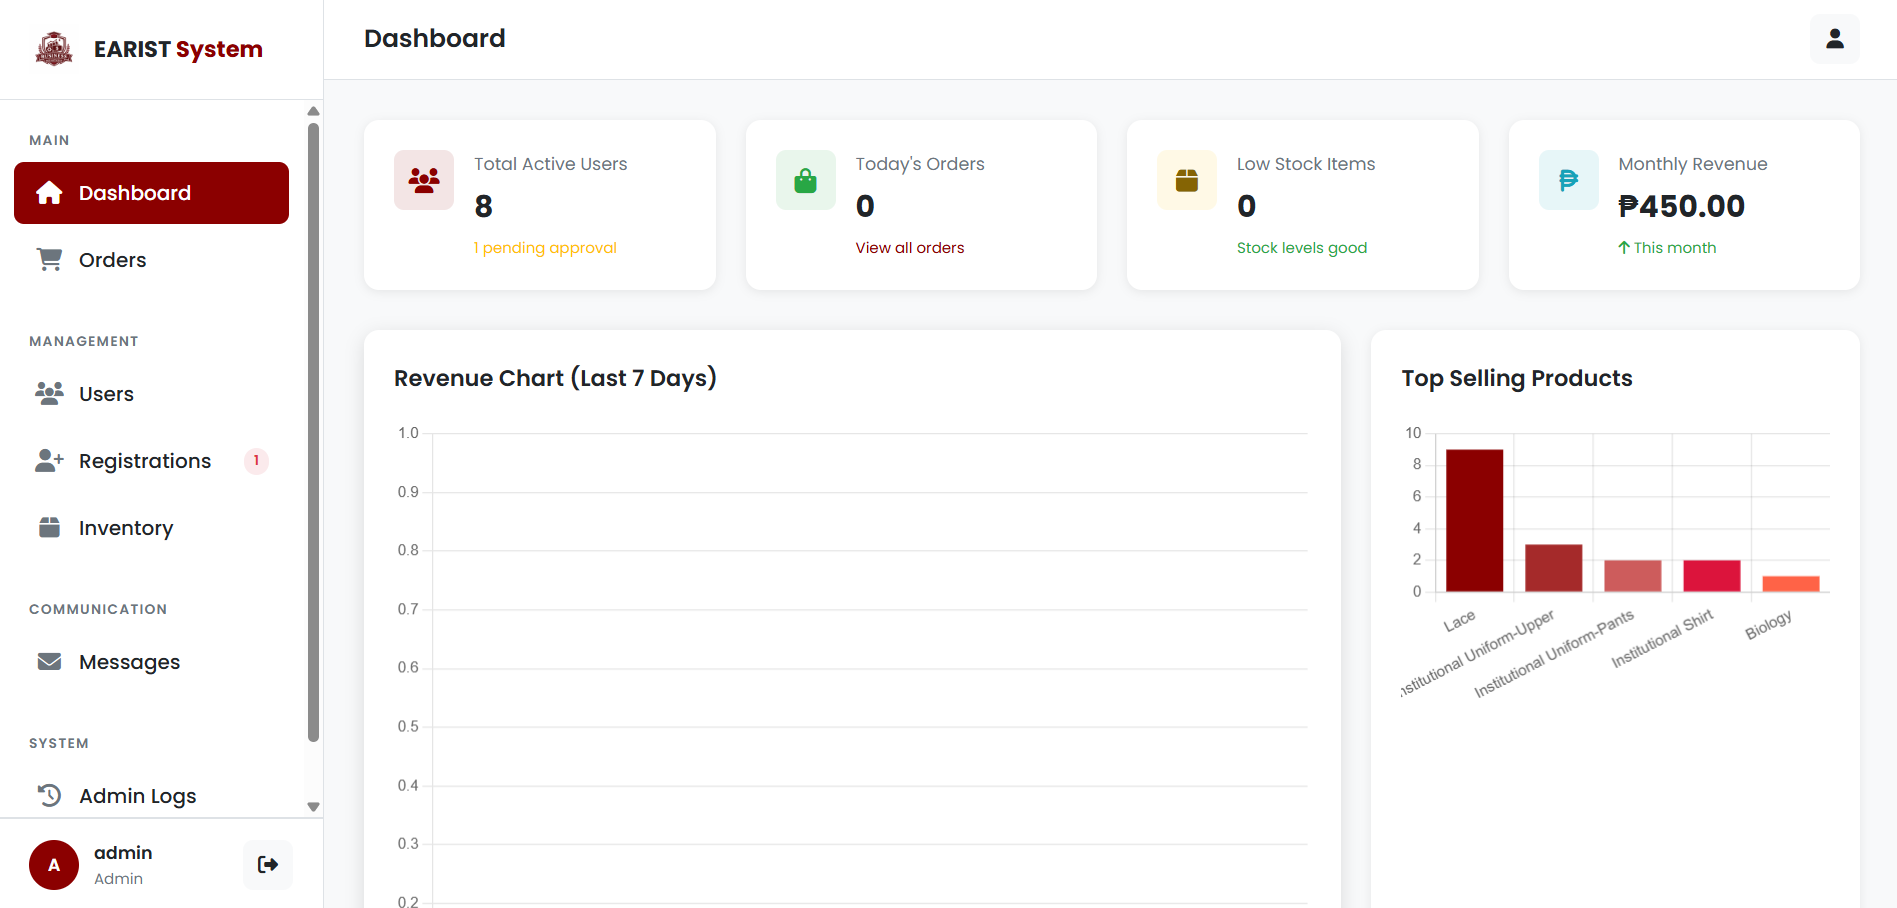
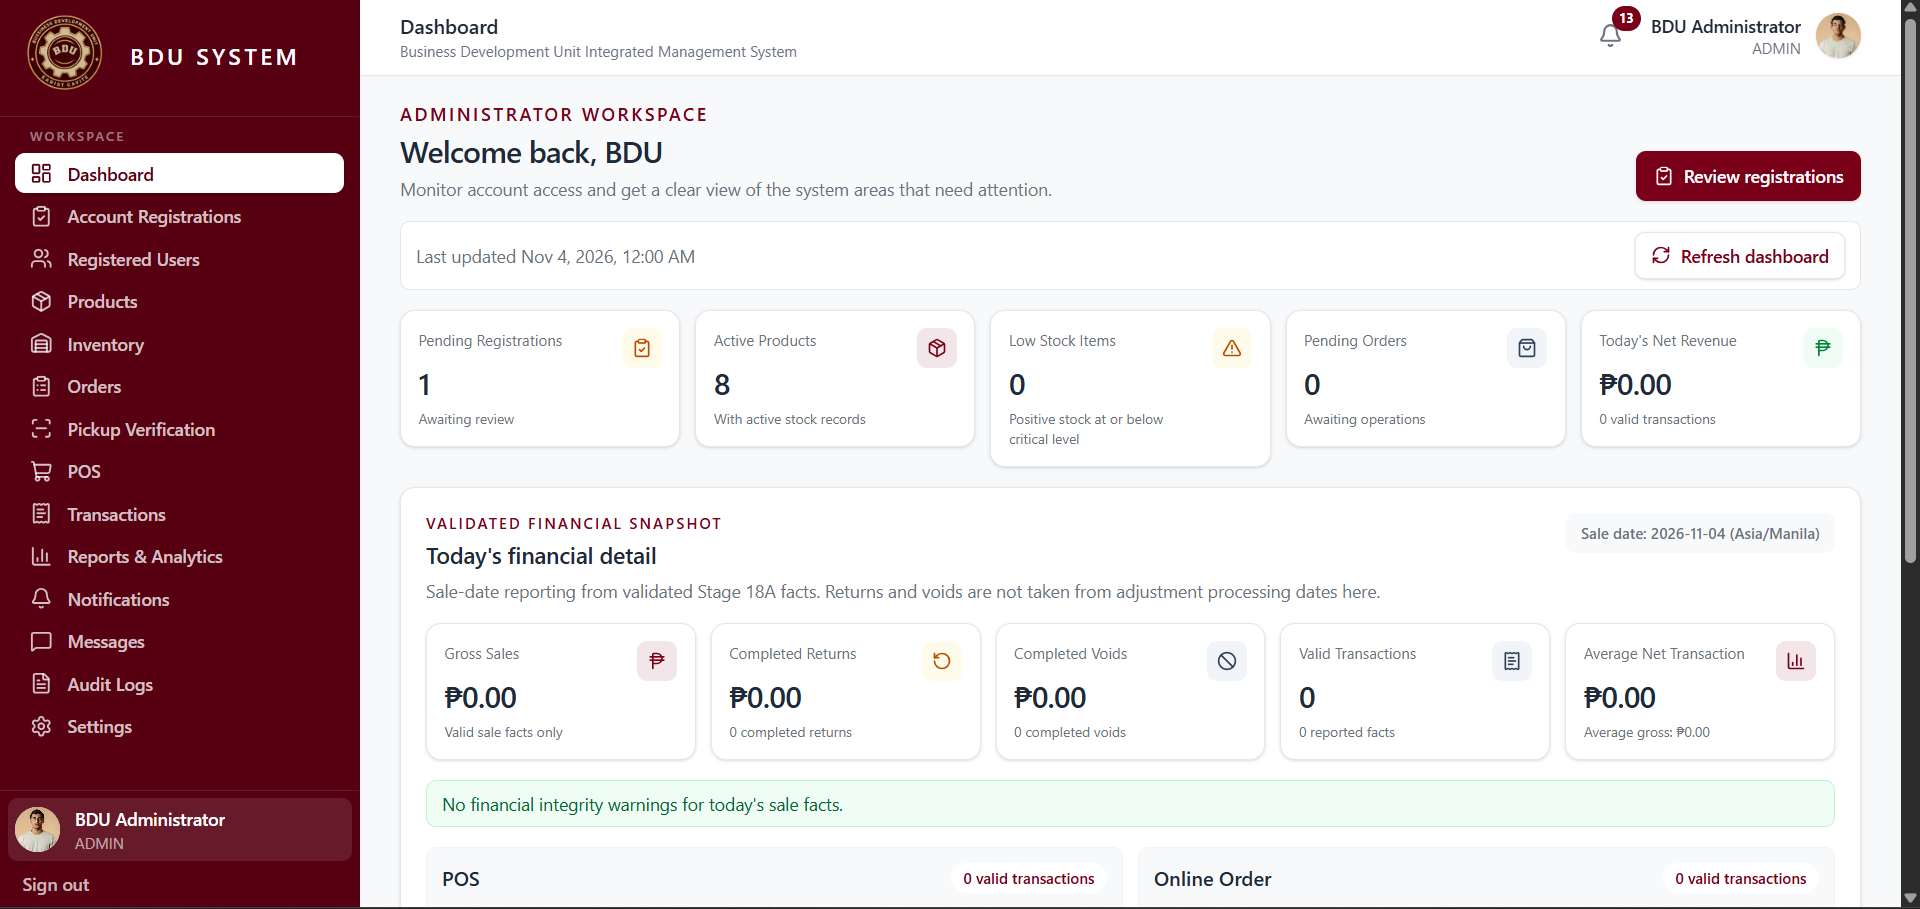
Update portfolio with thesis-defended BDU CONNECT system

diff --git a/src/data/projects.js b/src/data/projects.js
@@ -30,70 +30,79 @@ export const projects = [
     id: 'bdu',
     number: '01',
     slug: 'earist-business-development-unit-system',
-    title: 'EARIST Business Development Unit System',
-    shortTitle: 'EARIST BDU System',
-    version: '1.0',
-    type: 'Capstone / Thesis Web-Based Management System',
+    title: 'BDU CONNECT',
+    shortTitle: 'BDU CONNECT',
+    subtitle: 'EARIST Business Development Unit Integrated Management System',
+    type: 'Web-Based Integrated Management System',
     role: 'Programmer',
-    status: 'Featured / Capstone',
+    status: 'Thesis Defended',
     featured: true,
-    shortDescription: 'A web-based Business Development Unit management system integrating inventory, online ordering, preorder workflows, POS transactions, barcode-assisted pickup, reporting, and role-based administration.',
-    overview: 'The EARIST Business Development Unit System is a web-based management platform designed to support Business Development Unit operations through an integrated POS and department portal. The system brings together product management, inventory monitoring, student and staff records, online ordering, preorder workflows, point-of-sale transactions, order processing, barcode-assisted pickup, reporting, activity logs, messaging, and role-based access.',
-    technologies: ['PHP', 'MySQL', 'HTML', 'CSS', 'JavaScript', 'PDO', 'AJAX', 'Chart.js', 'XAMPP'],
-    visibleTechnologies: ['PHP', 'MySQL', 'JavaScript', 'AJAX'],
-    categories: ['Product & Inventory', 'User Management', 'Online Store', 'POS & Order Processing', 'Administration & Monitoring'],
+    shortDescription: 'BDU CONNECT is a web-based integrated management system developed for the Business Development Unit of EARIST Cavite Campus. It integrates online pre-ordering, product and inventory management, point-of-sale transactions, barcode-assisted order pickup, sales monitoring, reporting, and role-based administration using modern web technologies.',
+    overview: 'BDU CONNECT is a web-based integrated management system developed to support the operational and administrative processes of the Business Development Unit of EARIST Cavite Campus. The system centralizes product management, inventory monitoring, student online pre-ordering, order processing, point-of-sale transactions, barcode-assisted order pickup, sales monitoring, reporting, and account administration.\n\nBuilt using React, Vite, Tailwind CSS, and Supabase, the system provides dedicated interfaces for administrators, staff, and students. It integrates database management, authentication, role-based access, file storage, and interactive reporting within a unified web application.',
+    technologies: ['React', 'JavaScript', 'Tailwind CSS', 'HTML', 'CSS', 'Vite', 'Supabase', 'PostgreSQL', 'PostgreSQL Database Functions', 'RPC', 'Supabase Auth', 'Row-Level Security', 'Supabase Storage', 'Visual Studio Code', 'Git', 'GitHub'],
+    visibleTechnologies: ['React', 'Vite', 'Tailwind CSS', 'Supabase', 'PostgreSQL'],
+    categories: ['Product & Inventory', 'Online Pre-Ordering', 'Point of Sale', 'Order Fulfillment', 'Administration & Reporting'],
     features: [
-      { category: 'COMMERCE', items: ['Online Store', 'Cart', 'Preorder', 'Point of Sale'] },
-      { category: 'OPERATIONS', items: ['Product Management', 'Inventory Management', 'Order Processing', 'Barcode-Assisted Pickup'] },
-      { category: 'ADMINISTRATION', items: ['User / Record Management', 'Role-Based Access', 'Activity Logs', 'Messaging'] },
-      { category: 'INSIGHTS', items: ['Reports'] },
+      { category: 'COMMERCE', items: ['Product Catalog', 'Shopping Cart', 'Online Pre-Ordering', 'Point-of-Sale Transactions', 'Cash Payment Upon Pickup'] },
+      { category: 'OPERATIONS', items: ['Product Management', 'Product Type and Variant Management', 'SKU Management', 'Inventory Management', 'Order Processing', 'Barcode-Assisted Pickup', 'Transaction Management'] },
+      { category: 'ADMINISTRATION', items: ['User Account Management', 'Registration and Account Approval', 'Role-Based Access', 'Audit Logs', 'Notifications', 'Messaging', 'Landing Page Management', 'Announcement Management', 'Account Settings'] },
+      { category: 'INSIGHTS', items: ['Sales Monitoring', 'Sales Reports', 'Inventory Reports', 'Transaction Reports', 'Product Performance Reports', 'Dashboard Analytics'] },
     ],
     // Future screenshots should be reviewed for student IDs, contact details, credentials, tokens, and private transactions.
     screenshots: [
-      { id: 'bdu-dashboard', title: 'Admin Dashboard', description: 'Primary administrative overview.', image: bduDashboard, alt: 'EARIST BDU admin dashboard' },
-      { id: 'bdu-inventory', title: 'Inventory Management', description: 'Inventory monitoring interface.', image: bduInventory, alt: 'EARIST BDU inventory management' },
-      { id: 'bdu-store', title: 'Online Store', description: 'Product browsing and ordering interface.', image: bduStore, alt: 'EARIST BDU online store' },
-      { id: 'bdu-cart', title: 'Cart / Order', description: 'Cart and order workflow interface.', image: bduCart, alt: 'EARIST BDU cart and order' },
-      { id: 'bdu-pos', title: 'POS Interface', description: 'Point-of-sale transaction interface.', image: bduPos, alt: 'EARIST BDU point-of-sale interface' },
-      { id: 'bdu-processing', title: 'Order Processing', description: 'Order processing interface.', image: bduProcessing, alt: 'EARIST BDU order processing' },
-      { id: 'bdu-pickup', title: 'Barcode-Assisted Pickup', description: 'Pickup verification interface.', image: bduPickup, alt: 'EARIST BDU barcode-assisted pickup' },
-      { id: 'bdu-reports', title: 'Reports', description: 'Reporting interface.', image: bduReports, alt: 'EARIST BDU reports' },
+      { id: 'bdu-dashboard', title: 'Admin Dashboard', description: 'Primary administrative overview.', image: bduDashboard, alt: 'BDU CONNECT admin dashboard' },
+      { id: 'bdu-inventory', title: 'Inventory Management', description: 'Inventory monitoring interface.', image: bduInventory, alt: 'BDU CONNECT inventory management' },
+      { id: 'bdu-store', title: 'Online Store', description: 'Product browsing and ordering interface.', image: bduStore, alt: 'BDU CONNECT online store' },
+      { id: 'bdu-cart', title: 'Cart / Order', description: 'Cart and order workflow interface.', image: bduCart, alt: 'BDU CONNECT cart and order' },
+      { id: 'bdu-pos', title: 'POS Interface', description: 'Point-of-sale transaction interface.', image: bduPos, alt: 'BDU CONNECT point-of-sale interface' },
+      { id: 'bdu-processing', title: 'Order Processing', description: 'Order processing interface.', image: bduProcessing, alt: 'BDU CONNECT order processing' },
+      { id: 'bdu-pickup', title: 'Barcode-Assisted Pickup', description: 'Pickup verification interface.', image: bduPickup, alt: 'BDU CONNECT barcode-assisted pickup' },
+      { id: 'bdu-reports', title: 'Reports', description: 'Reporting interface.', image: bduReports, alt: 'BDU CONNECT reports' },
     ],
     challenge: null,
     solution: null,
     learnings: null,
     contributions: [],
     caseStudy: {
-      objective: 'To organize Business Development Unit transactions and operational workflows within a centralized web-based system, covering product and inventory management, ordering, point-of-sale transactions, pickup processing, records, reporting, and role-based access.',
+      objective: 'To streamline Business Development Unit operations through a centralized digital platform that supports product and inventory management, online pre-ordering, point-of-sale transactions, order fulfillment, sales monitoring, and administrative decision-making.',
       users: [
-        { label: 'Administrator', description: 'Manages system operations, records, products, inventory, orders, reports, user access, and administrative workflows.' },
-        { label: 'Student', description: 'Can access the appropriate user portal and participate in supported ordering and account workflows.' },
-        { label: 'Staff', description: 'Can access the appropriate staff portal and participate in supported ordering and account workflows.' },
+        { label: 'Administrator', description: 'Manages user accounts and registration approvals, products, product types, variants, inventory, orders, sales, reports, announcements, landing-page content, audit logs, and administrative settings.' },
+        { label: 'Staff', description: 'Processes point-of-sale transactions, manages online orders, verifies and releases pickups, monitors products and inventory, and accesses authorized transaction records and reports.' },
+        { label: 'Student', description: 'Browses products, adds variants to the cart, submits online pre-orders, monitors order status, receives notifications, uses pickup identification or barcode, and manages account information.' },
       ],
       workflows: [
-        { label: 'A / Online order workflow', steps: ['Browse Products', 'Add to Cart', 'Place Order / Preorder', 'Order Processing', 'Pickup', 'Cash Payment Upon Pickup'] },
-        { label: 'B / Point-of-sale workflow', steps: ['Product Selection', 'Transaction', 'Inventory Update', 'Record / Receipt Flow'] },
-        { label: 'C / Order pickup workflow', steps: ['Processed Order', 'Pickup Verification', 'Barcode-Assisted Identification', 'Order Release'] },
-        { label: 'D / Account registration workflow', steps: ['Student / Staff Registration', 'Pending Approval', 'Waiting Area', 'Administrative Review', 'Approved Account Access'] },
+        { label: 'A / Student online pre-ordering', steps: ['Browse Products', 'Select Product and Variant', 'Add to Cart', 'Submit Pre-Order', 'Order Processing', 'Pickup and Cash Payment'] },
+        { label: 'B / Point-of-sale workflow', steps: ['Product Selection', 'Transaction Processing', 'Payment', 'Inventory Update', 'Transaction Record'] },
+        { label: 'C / Order pickup workflow', steps: ['Processed Order', 'Barcode-Assisted Verification', 'Pickup Confirmation and Cash Payment', 'Order Release'] },
+        { label: 'D / Account registration workflow', steps: ['Student / Staff Registration', 'Email Verification', 'Pending Approval', 'Administrative Review', 'Approved Account Access'] },
       ],
       technologyGroups: [
-        { label: 'Frontend', items: ['HTML', 'CSS', 'JavaScript'] },
-        { label: 'Backend', items: ['PHP', 'PDO', 'AJAX'] },
-        { label: 'Database', items: ['MySQL'] },
-        { label: 'Reporting / Visualization', items: ['Chart.js'] },
-        { label: 'Development Environment', items: ['XAMPP'] },
+        { label: 'Frontend', items: ['React', 'JavaScript', 'Tailwind CSS', 'HTML', 'CSS'] },
+        { label: 'Build Tool', items: ['Vite'] },
+        { label: 'Backend / Services', items: ['Supabase', 'PostgreSQL Database Functions', 'Remote Procedure Calls (RPC)'] },
+        { label: 'Database', items: ['PostgreSQL'] },
+        { label: 'Authentication / Authorization', items: ['Supabase Auth', 'Role-Based Access Control', 'Row-Level Security (RLS)'] },
+        { label: 'File Storage / Tools', items: ['Supabase Storage', 'Visual Studio Code', 'Git', 'GitHub'] },
       ],
-      dataDomains: ['Users', 'Products', 'Inventory', 'Students', 'Staff', 'Orders', 'Order Items', 'Transactions', 'Reports', 'Activity Records', 'Messages'],
-      technicalHighlights: ['PHP-based server-side processing', 'MySQL-backed data storage', 'PDO database interaction', 'JavaScript-driven interface behavior', 'AJAX-supported asynchronous interactions', 'Chart.js reporting / data visualization', 'Role-based access', 'Barcode-assisted pickup workflow', 'Activity logging', 'Responsive web interface'],
+      dataDomains: ['User Profiles', 'User Roles', 'Products', 'Product Types', 'Product Variants', 'SKUs', 'Inventory', 'Shopping Cart', 'Orders', 'Order Items', 'Transactions', 'Transaction Items', 'Notifications', 'Messages', 'Announcements', 'Audit Logs'],
+      dataRelationships: [
+        ['User Profiles', 'Orders', 'Order Items', 'Pickup'],
+        ['Product Types', 'Products', 'Variants', 'Inventory'],
+        ['Products', 'Transactions', 'Sales Reports'],
+        ['Administrative Activities', 'Audit Logs'],
+      ],
+      technicalHighlights: ['React component-based frontend', 'Vite development and build tooling', 'Tailwind CSS responsive interfaces', 'Supabase authentication', 'PostgreSQL-backed data management', 'Database functions and RPC operations', 'Row-Level Security policies', 'Role-specific application interfaces', 'Supabase Storage integration', 'Product variant and SKU management', 'Barcode-assisted pickup workflows', 'Transaction and inventory management', 'Audit logging', 'Sales reporting and dashboard analytics'],
       technicalLayers: [
-        { label: 'Interface', items: 'HTML / CSS / JavaScript' },
-        { label: 'Application Logic', items: 'PHP / AJAX' },
-        { label: 'Data', items: 'PDO / MySQL' },
-        { label: 'Reporting', items: 'Chart.js' },
+        { label: 'Presentation Layer', items: 'React / JavaScript / Tailwind CSS' },
+        { label: 'Application Layer', items: 'React Components / Application Workflows / Supabase Client' },
+        { label: 'Authentication and Authorization', items: 'Supabase Auth / Role-Based Access / RLS' },
+        { label: 'Data and Business Logic', items: 'PostgreSQL / Database Functions / RPC' },
+        { label: 'Storage Services', items: 'Supabase Storage' },
+        { label: 'Reporting and Analytics', items: 'Sales / Inventory / Transactions / Product Performance' },
       ],
-      contribution: 'As a programmer for the project, I contributed to the development of the system\'s web-based functionality and implementation.',
-      reflection: 'Working on the BDU system provided practical experience in developing a multi-module, database-driven web application that connects user workflows, administrative processes, transaction handling, and data management within one system. It also provided experience working across frontend interfaces, server-side logic, database interaction, and operational workflows.',
-      learningAreas: ['Multi-Module Development', 'Database-Driven Workflows', 'Role-Based System Design', 'Transaction & Order Flows', 'Frontend / Backend Integration', 'Iterative System Development'],
+      contribution: 'As a programmer of BDU CONNECT, I contributed to the development of its web application interfaces, database-driven workflows, authentication and authorization, product and inventory management, order processing, and transaction-related functionalities. The project provided practical experience in integrating modern frontend technologies with cloud-based database and application services.',
+      reflection: 'Developing BDU CONNECT strengthened my understanding of modern web application development, component-based interfaces, database management, authentication, and role-based system design. Transitioning from a traditional PHP/MySQL implementation to React and Supabase provided practical experience in integrating frontend applications with backend services and managing interconnected business workflows.\n\nThe project also improved my understanding of data consistency, access control, debugging, system testing, and the importance of designing applications around actual operational requirements.',
+      learningAreas: ['Component-Based Development', 'Cloud-Backed Data Workflows', 'Authentication & Authorization', 'Role-Based System Design', 'Transaction & Inventory Workflows', 'Application Testing & Debugging'],
     },
   },
   // GMASC's verified stack intentionally excludes Supabase.

diff --git a/src/components/ProjectCaseStudy.jsx b/src/components/ProjectCaseStudy.jsx
@@ -1,4 +1,4 @@
-import { useEffect, useRef } from 'react'
+import { Fragment, useEffect, useRef } from 'react'
 import { projects } from '../data/projects'
 import ProjectGallery from './ProjectGallery'
 import ProjectNavigation from './ProjectNavigation'
@@ -67,9 +67,9 @@ function CaseStudySection({ index, label, title, children, className = '' }) {
 function MetadataStrip({ project }) {
   const metadata = [
     { label: 'Role', value: project.role },
-    { label: 'System type', value: 'Capstone / Thesis' },
-    { label: 'Core stack', value: 'PHP / MySQL / JavaScript' },
-    { label: 'Architecture', value: 'Web-Based Management System' },
+    { label: 'Category', value: 'Capstone / Thesis' },
+    { label: 'Status', value: project.status },
+    { label: 'Institution', value: 'EARIST Cavite Campus' },
   ]
 
   return (
@@ -114,7 +114,7 @@ function BduCaseStudy({ project, onClose, onNavigate, isClosing }) {
           <button className="bdu-return-link" type="button" onClick={onClose}>
             <span aria-hidden="true">&larr;</span> Return to projects
           </button>
-          <button ref={closeButtonRef} aria-label="Close EARIST BDU case study" className="bdu-close-button" type="button" onClick={onClose}>
+          <button ref={closeButtonRef} aria-label="Close BDU CONNECT case study" className="bdu-close-button" type="button" onClick={onClose}>
             Close <span aria-hidden="true">X</span>
           </button>
         </div>
@@ -123,13 +123,14 @@ function BduCaseStudy({ project, onClose, onNavigate, isClosing }) {
           <div className="bdu-case-study-heading">
             <div className="bdu-case-study-kicker">
               <p className="font-technical">Project / {project.number}</p>
-              <p className="font-technical">Featured / Capstone</p>
+              <p className="font-technical">Featured / {project.status}</p>
             </div>
             <h1 id="bdu-case-study-title">{project.title}</h1>
-            <p className="bdu-case-study-type">Version {project.version} / {project.type}</p>
+            <p className="bdu-case-study-type">{project.subtitle}</p>
+            <p className="bdu-case-study-type">{project.type}</p>
             <p className="bdu-case-study-description">{project.overview}</p>
           </div>
-          <ProjectScreenshot className="bdu-header-screenshot project-case-study-hero-screenshot" featured placeholderLabel="System preview / BDU" project={project} screenshot={project.screenshots[0]} />
+          <ProjectScreenshot className="bdu-header-screenshot project-case-study-hero-screenshot" featured placeholderLabel="System preview / BDU CONNECT" project={project} screenshot={project.screenshots[0]} />
         </header>
 
         <MetadataStrip project={project} />
@@ -159,7 +160,7 @@ function BduCaseStudy({ project, onClose, onNavigate, isClosing }) {
             </div>
             <div className="bdu-access-note">
               <p className="font-technical">Account &amp; access workflow</p>
-              <p>Student and Staff registrations enter a pending state and move through a waiting area until administrative review. Admin accounts are not created through public registration.</p>
+              <p>Student and Staff accounts undergo registration, email verification, and administrative approval before accessing their authorized system interfaces. Administrator accounts are not created through public registration.</p>
             </div>
           </CaseStudySection>
 
@@ -194,22 +195,29 @@ function BduCaseStudy({ project, onClose, onNavigate, isClosing }) {
                 </article>
               ))}
             </div>
-            <p className="bdu-context-note">The system uses PHP and MySQL as its primary server-side and database foundation, with JavaScript and AJAX supporting interactive browser-side workflows and Chart.js supporting data visualization where applicable.</p>
+            <p className="bdu-context-note">BDU CONNECT uses React and Tailwind CSS to deliver responsive, role-specific user interfaces, with Vite supporting the frontend development and build process. Supabase provides PostgreSQL database services, authentication, file storage, and database-level access controls. PostgreSQL functions and RPC operations support application workflows and data processing.</p>
           </CaseStudySection>
 
           <CaseStudySection index="06" label="Database & data management" title="Data domains">
             <div className="bdu-data-layout">
               <div className="bdu-case-prose">
-                <p>The system is organized around functional data domains that connect users, products, inventory, transactions, and operational records. This view describes the areas of information the system works with, not a literal database schema.</p>
-                <div className="bdu-domain-list" aria-label="BDU data domains">
+                <p>The system uses PostgreSQL through Supabase to manage interconnected operational data, including user accounts, product information, inventory, pre-orders, transactions, notifications, and administrative records. Database relationships, access policies, and database functions support organized data management and controlled access.</p>
+                <div className="bdu-domain-list" aria-label="BDU CONNECT data domains">
                   {caseStudy.dataDomains.map((domain) => <span key={domain}>{domain}</span>)}
                 </div>
               </div>
-              <div className="bdu-data-diagram" aria-label="Conceptual relationships between BDU data domains">
+              <div className="bdu-data-diagram" aria-label="Conceptual relationships between BDU CONNECT data domains">
                 <p className="font-technical">Conceptual view / not an exact ERD</p>
-                <div className="bdu-data-diagram-row"><span>Users</span><span aria-hidden="true">-&gt;</span><span>Orders</span><span aria-hidden="true">-&gt;</span><span>Pickup</span></div>
-                <div className="bdu-data-diagram-row"><span>Products</span><span aria-hidden="true">-&gt;</span><span>Inventory</span><span aria-hidden="true">-&gt;</span><span>Transactions</span></div>
-                <div className="bdu-data-diagram-row"><span>Activity Records</span><span aria-hidden="true">-&gt;</span><span>Reports</span></div>
+                {caseStudy.dataRelationships.map((relationship) => (
+                  <div key={relationship.join('-')} className="bdu-data-diagram-row">
+                    {relationship.map((domain, index) => (
+                      <Fragment key={domain}>
+                        {index > 0 ? <span aria-hidden="true">-&gt;</span> : null}
+                        <span>{domain}</span>
+                      </Fragment>
+                    ))}
+                  </div>
+                ))}
               </div>
             </div>
           </CaseStudySection>

diff --git a/src/components/FeaturedProject.jsx b/src/components/FeaturedProject.jsx
@@ -10,7 +10,7 @@ function FeaturedProject({ project, onViewCaseStudy }) {
             <p className="font-technical project-number">Project / {project.number}</p>
             <p className="font-technical featured-project-label">{project.status}</p>
           </div>
-          <span className="font-technical featured-project-version">Version {project.version}</span>
+          {project.version ? <span className="font-technical featured-project-version">Version {project.version}</span> : null}
         </div>
         <h3>{project.title}</h3>
         <p className="featured-project-description">{project.shortDescription}</p>
